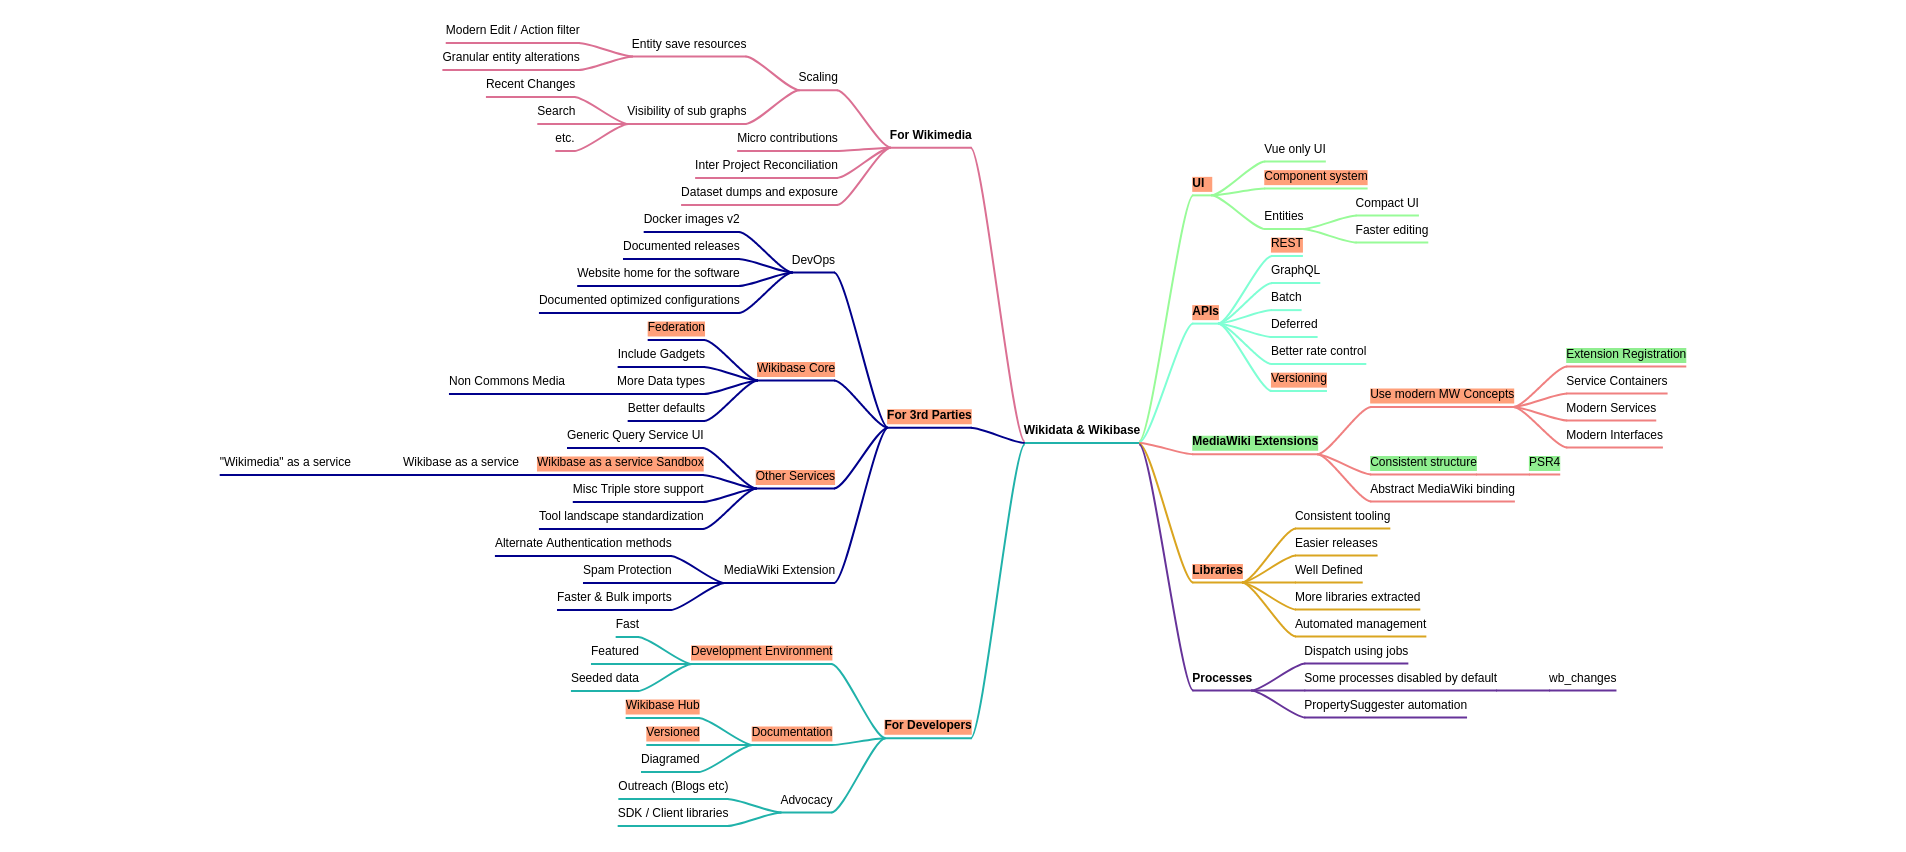
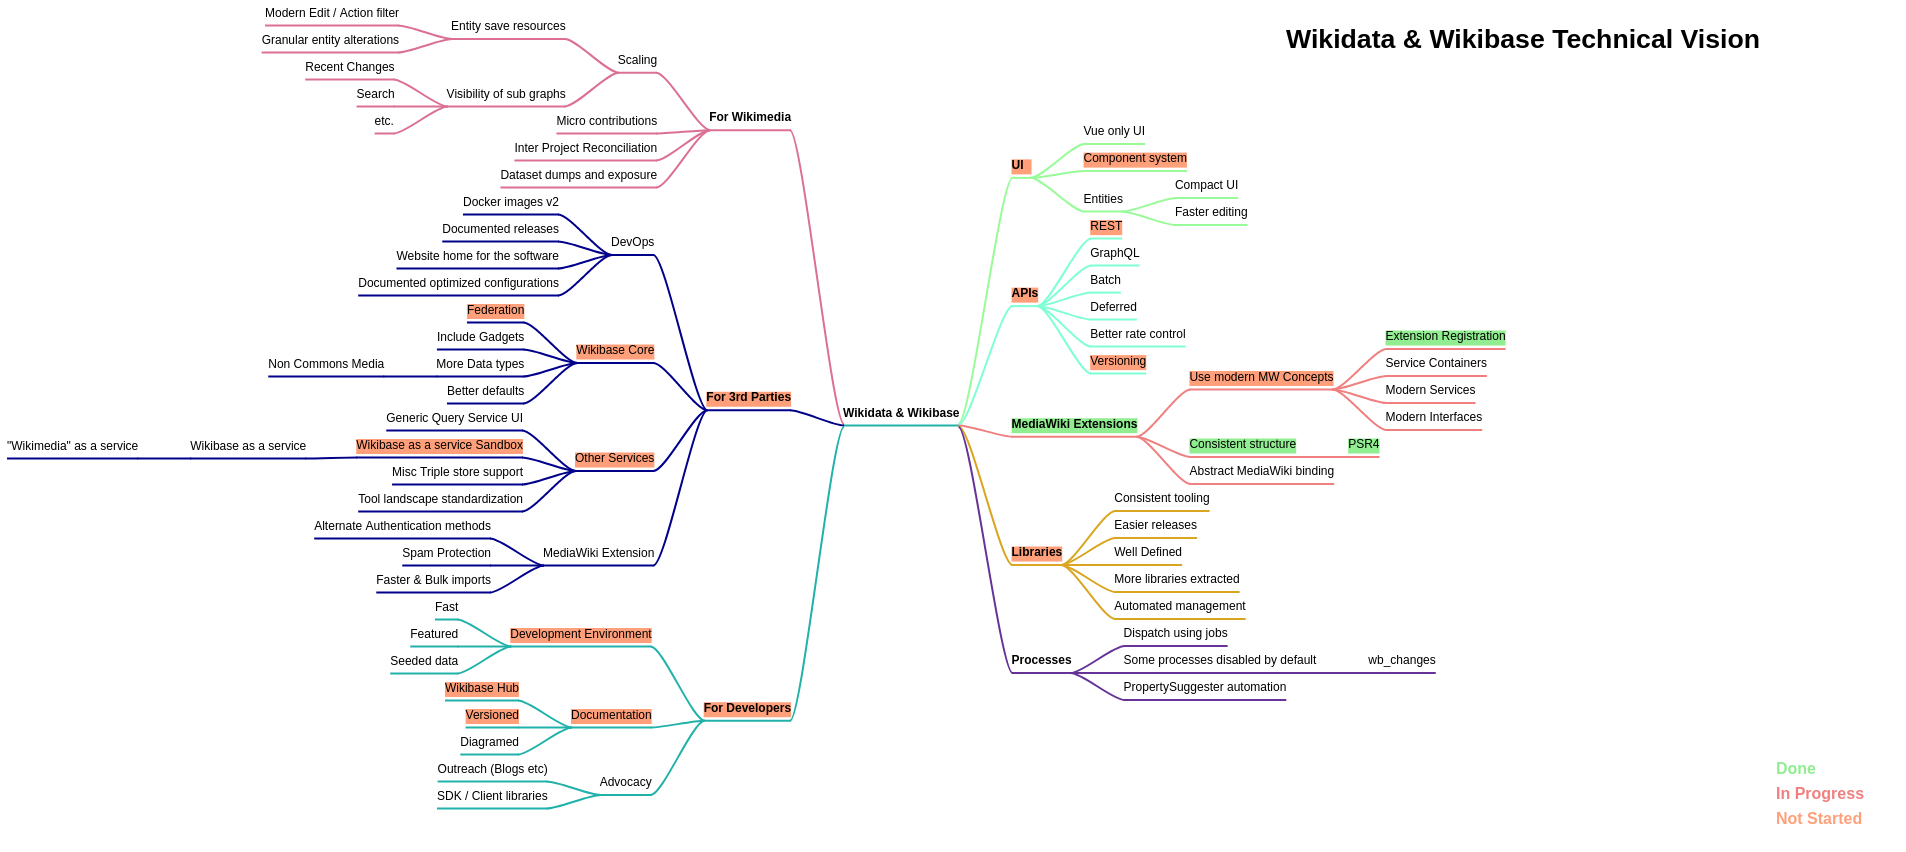
Deploying to gh-pages from  @ d7a4f560d0516288d2ec459833fb165046659e6b 🚀

Changed region(s): [[0.0, 0.0, 0.8977, 0.9765], [0.681, 0.0305, 0.9286, 0.061], [0.9286, 0.885, 0.9906, 0.9765]]

diff --git a/script.js b/script.js
@@ -51,9 +51,9 @@ var $ = go.GraphObject.make;
   myDiagram.add(
     $(go.Part,
       {
-        layerName: "Grid",  // must be in a Layer that is Layer.isTemporary,
+        layerName: "Foreground",  // must be in a Layer that is Layer.isTemporary,
         // to avoid being recorded by the UndoManager
-        _viewPosition: new go.Point(1385, 25)  // some position in the viewport,
+        _viewPosition: new go.Point(1285, 25)  // some position in the viewport,
         // not in document coordinates
       },
       $(go.TextBlock, "Wikidata & Wikibase Technical Vision", { font: "bold 20pt sans-serif" })));
@@ -61,17 +61,17 @@ var $ = go.GraphObject.make;
   // Key
   myDiagram.add(
     $(go.Part,
-      { layerName: "Grid", _viewPosition: new go.Point(1775, 760), },
+      { layerName: "Foreground", _viewPosition: new go.Point(1775, 760), },
       $(go.TextBlock, "Done", { font: "bold 12pt sans-serif", "stroke": "lightgreen" })));
 
   myDiagram.add(
     $(go.Part,
-      { layerName: "Grid", _viewPosition: new go.Point(1775, 760 + 25), },
+      { layerName: "Foreground", _viewPosition: new go.Point(1775, 760 + 25), },
       $(go.TextBlock, "In Progress", { font: "bold 12pt sans-serif", "stroke": "lightcoral" })));
 
   myDiagram.add(
     $(go.Part,
-      { layerName: "Grid", _viewPosition: new go.Point(1775, 760 + 25 + 25), },
+      { layerName: "Foreground", _viewPosition: new go.Point(1775, 760 + 25 + 25), },
       $(go.TextBlock, "Not Started", { font: "bold 12pt sans-serif", "stroke": "lightsalmon" })));
 
   // Whenever the Diagram.position or Diagram.scale change,
